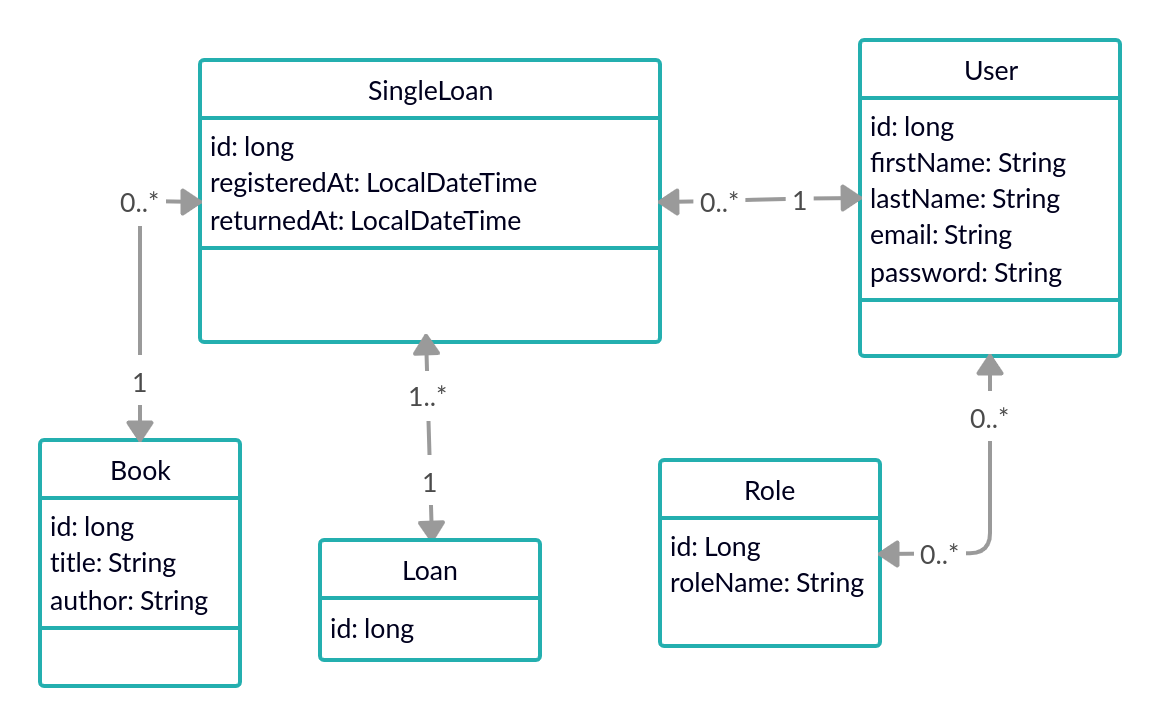
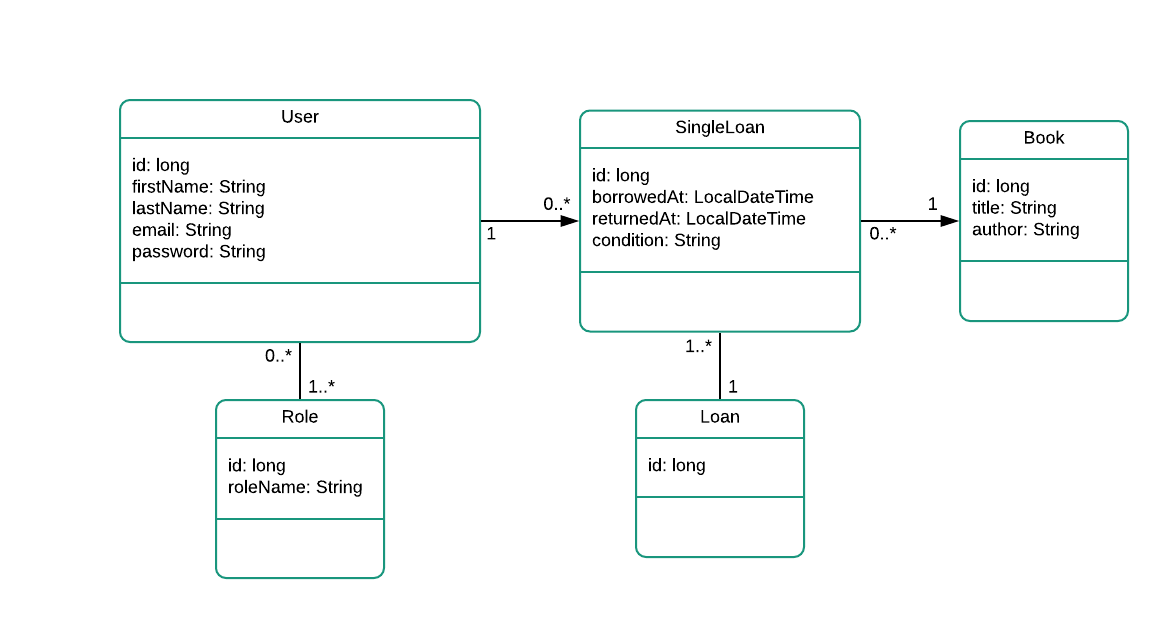
Update class diagram

diff --git a/library-persistence/src/main/java/cz/muni/fi/pa165/library/entities/SingleLoan.java b/library-persistence/src/main/java/cz/muni/fi/pa165/library/entities/SingleLoan.java
@@ -32,6 +32,8 @@ public class SingleLoan {
 
     private LocalDateTime returnedAt;
 
+    private String condition;
+
     public LocalDateTime getReturnedAt() {
         return returnedAt;
     }
@@ -72,6 +74,18 @@ public class SingleLoan {
         this.borrowedAt = registeredAt;
     }
 
+    public void setId(long id) {
+        this.id = id;
+    }
+
+    public String getCondition() {
+        return condition;
+    }
+
+    public void setCondition(String condition) {
+        this.condition = condition;
+    }
+
     @Override
     public boolean equals(Object o) {
         if (this == o) return true;
@@ -81,12 +95,13 @@ public class SingleLoan {
                 Objects.equals(book, that.book) &&
                 Objects.equals(user, that.user) &&
                 Objects.equals(borrowedAt, that.borrowedAt) &&
-                Objects.equals(returnedAt, that.returnedAt);
+                Objects.equals(returnedAt, that.returnedAt) &&
+                Objects.equals(condition, that.condition);
     }
 
     @Override
     public int hashCode() {
-        return Objects.hash(id, book, user, borrowedAt, returnedAt);
+        return Objects.hash(id, book, user, borrowedAt, returnedAt, condition);
     }
 
     @Override
@@ -94,8 +109,10 @@ public class SingleLoan {
         return "SingleLoan{" +
                 "id=" + id +
                 ", book=" + book +
-                ", member=" + user +
-                ", registeredAt=" + borrowedAt +
+                ", user=" + user +
+                ", borrowedAt=" + borrowedAt +
+                ", returnedAt=" + returnedAt +
+                ", condition='" + condition + '\'' +
                 '}';
     }
 }
